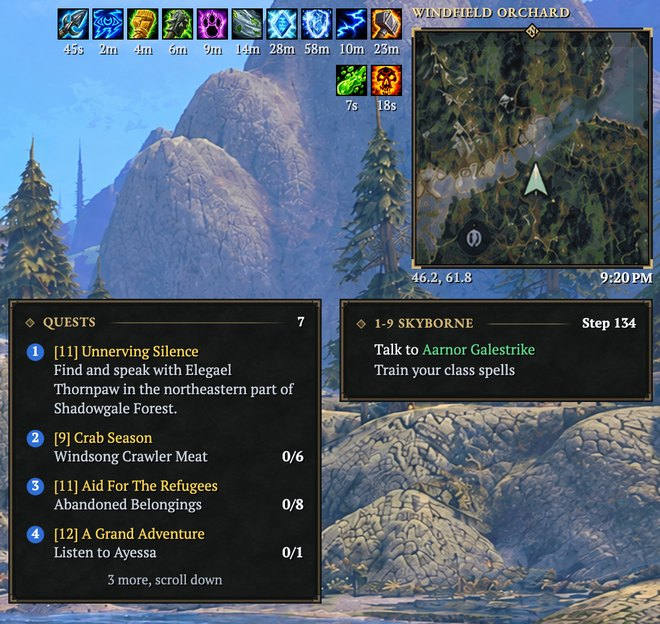
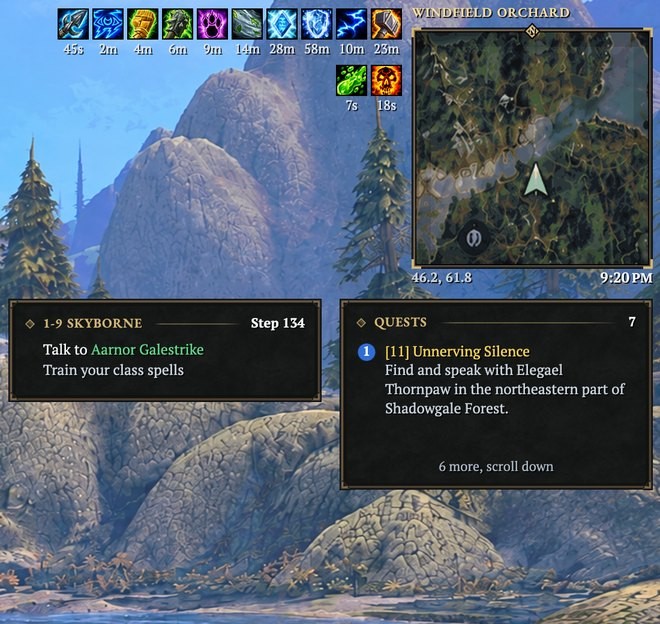
docs(readme): refresh pictures and right-rail text for v0.1.3

Changed region(s): [[0.0, 0.4872, 1.0, 0.9744], [0.8788, 0.4872, 0.9697, 0.5481], [0.3636, 0.4872, 0.4545, 0.5481]]

diff --git a/README.md b/README.md
@@ -63,11 +63,11 @@ One card with a bar per player in their class colour, in the style of Details. S
 
 ## Quests, guide and map on the right
 
-<p align="center"><img src="docs/media/readme/crop_rail.jpg" width="560" alt="Test render of the KstyleUI addon's right rail: the square minimap with the zone, coordinates and clock, the buff rows above it, the quest card with four quests and the RestedXP guide card beside it"></p>
+<p align="center"><img src="docs/media/readme/crop_rail.jpg" width="560" alt="Test render of the KstyleUI addon's right rail: the square minimap with the zone, coordinates and clock, the buff rows above it, the quest card in the slot under the map and the RestedXP guide card in the column beside it"></p>
 
 <p align="center"><sub>Test render of the addon's right rail: the map card, the quest card and the guide card.</sub></p>
 
-Your buffs and debuffs sit in rows above a square map card with the zone, your coordinates and the clock. Under it, the quest card keeps four quests in view with the count of the rest (one fewer when the guide needs the room for its step), and the RestedXP guide gets its own card beside it with the current step. When RestedXP shows its Active Targets and Active Items boxes, they dock side by side under the guide card, which keeps your current step in view. Tooltips, windows and these cards share one card design. The minimap's addon drawer collects every addon button on the map, and the pins guides park on the map's edge stay hidden unless you turn on **Addon pins on the map's edge** in the Minimap settings.
+Your buffs and debuffs sit in rows above a square map card with the zone, your coordinates and the clock. Under it, the quest card keeps four quests in view with the count of the rest, and scrolls for the others. While a RestedXP guide is shown, the guide takes the tall column beside the quest card, with room for your whole current step, and the quest card sits in the slot under the map, showing at least one quest. The two swap places only when the guide opens or closes. When RestedXP shows its Active Targets and Active Items boxes, they dock side by side under the guide card. Tooltips, windows and these cards share one card design. The minimap's addon drawer collects every addon button on the map, and the pins guides park on the map's edge stay hidden unless you turn on **Addon pins on the map's edge** in the Minimap settings.
 
 ## Pixel perfect at every size
 
